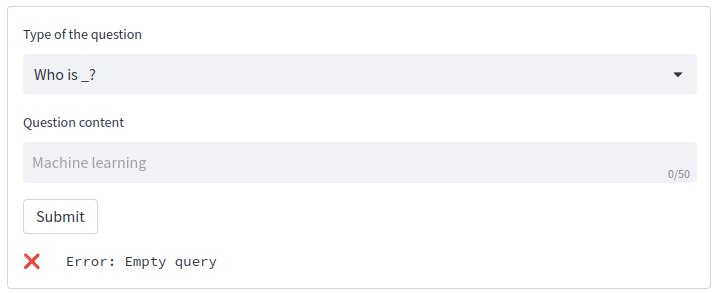
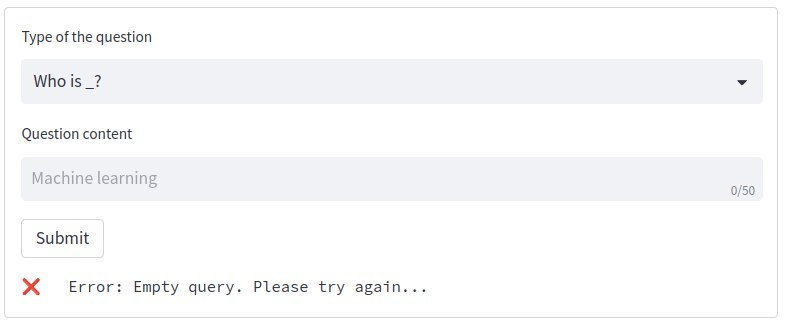
Add consistency improvement

diff --git a/frontend-streamlit/frontend_streamlit/src/main.py b/frontend-streamlit/frontend_streamlit/src/main.py
@@ -33,4 +33,4 @@ with st.form("main_form"):
                 for line in [format_res(q_type, x["title"], x["answer"]) for x in answers]:
                     st.text(f"✅   {line}")
         else:
-            st.text(f"❌   {answers['error']}")
+            st.text(f"❌   {answers['error']}. Please try again...")
